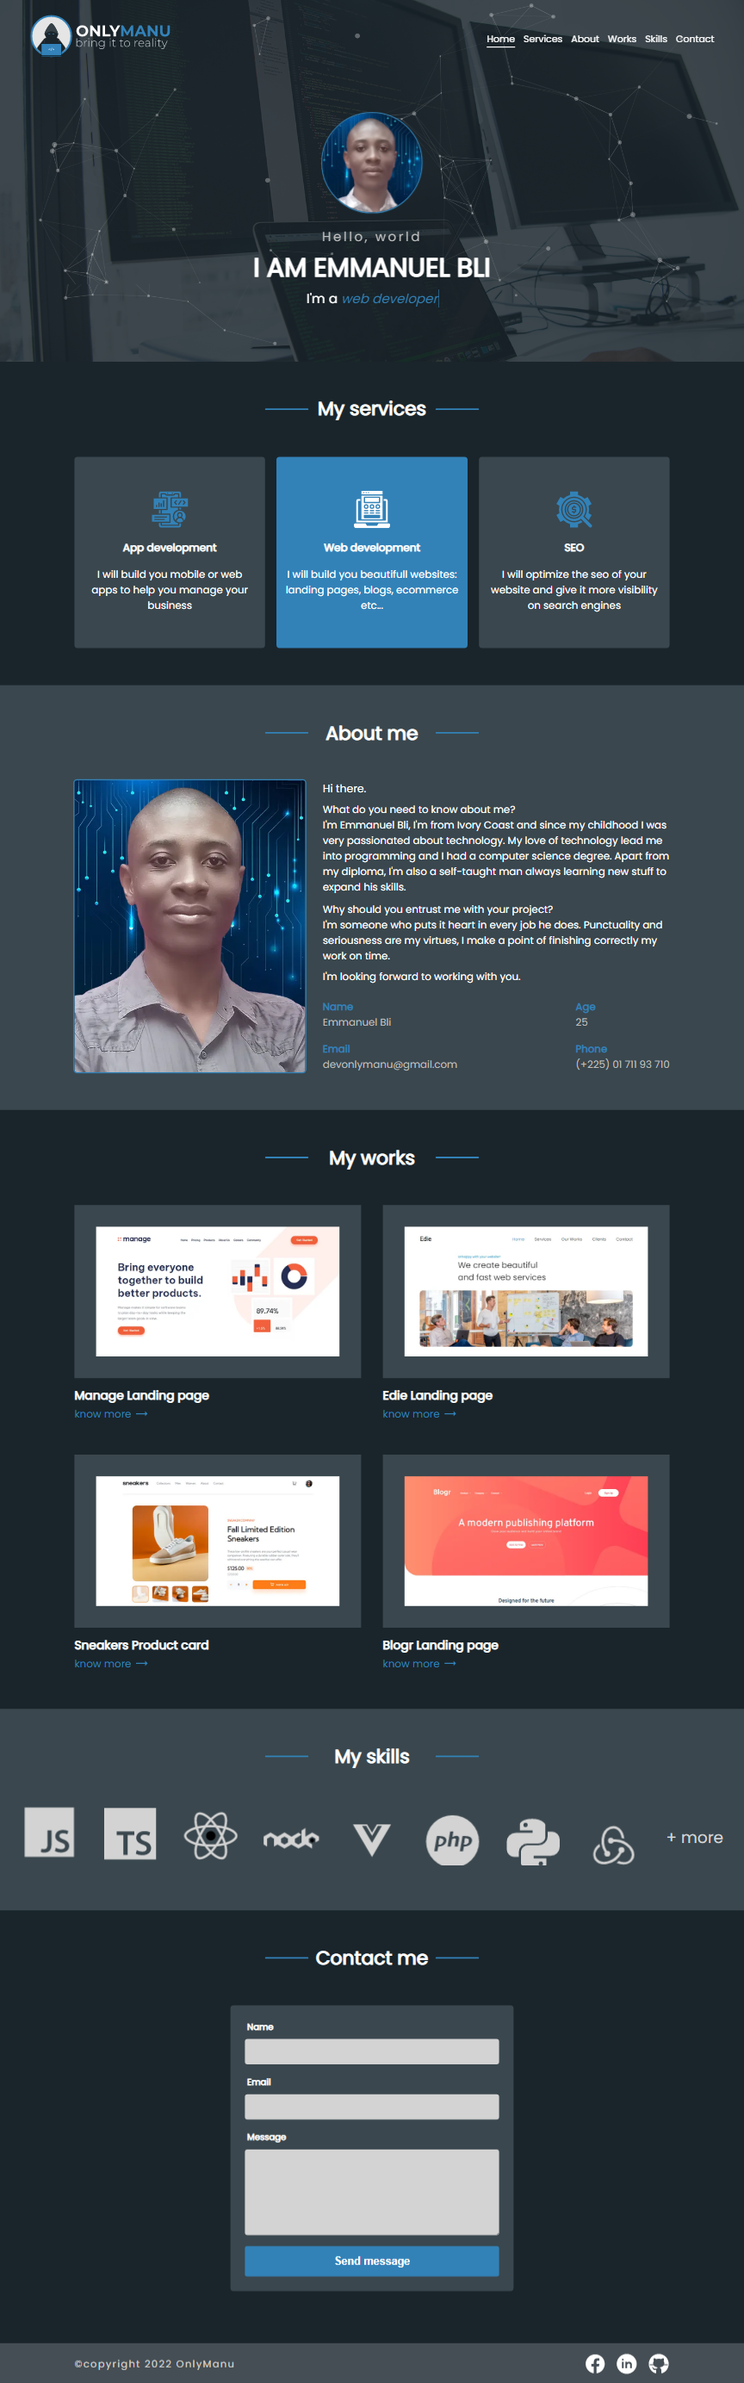
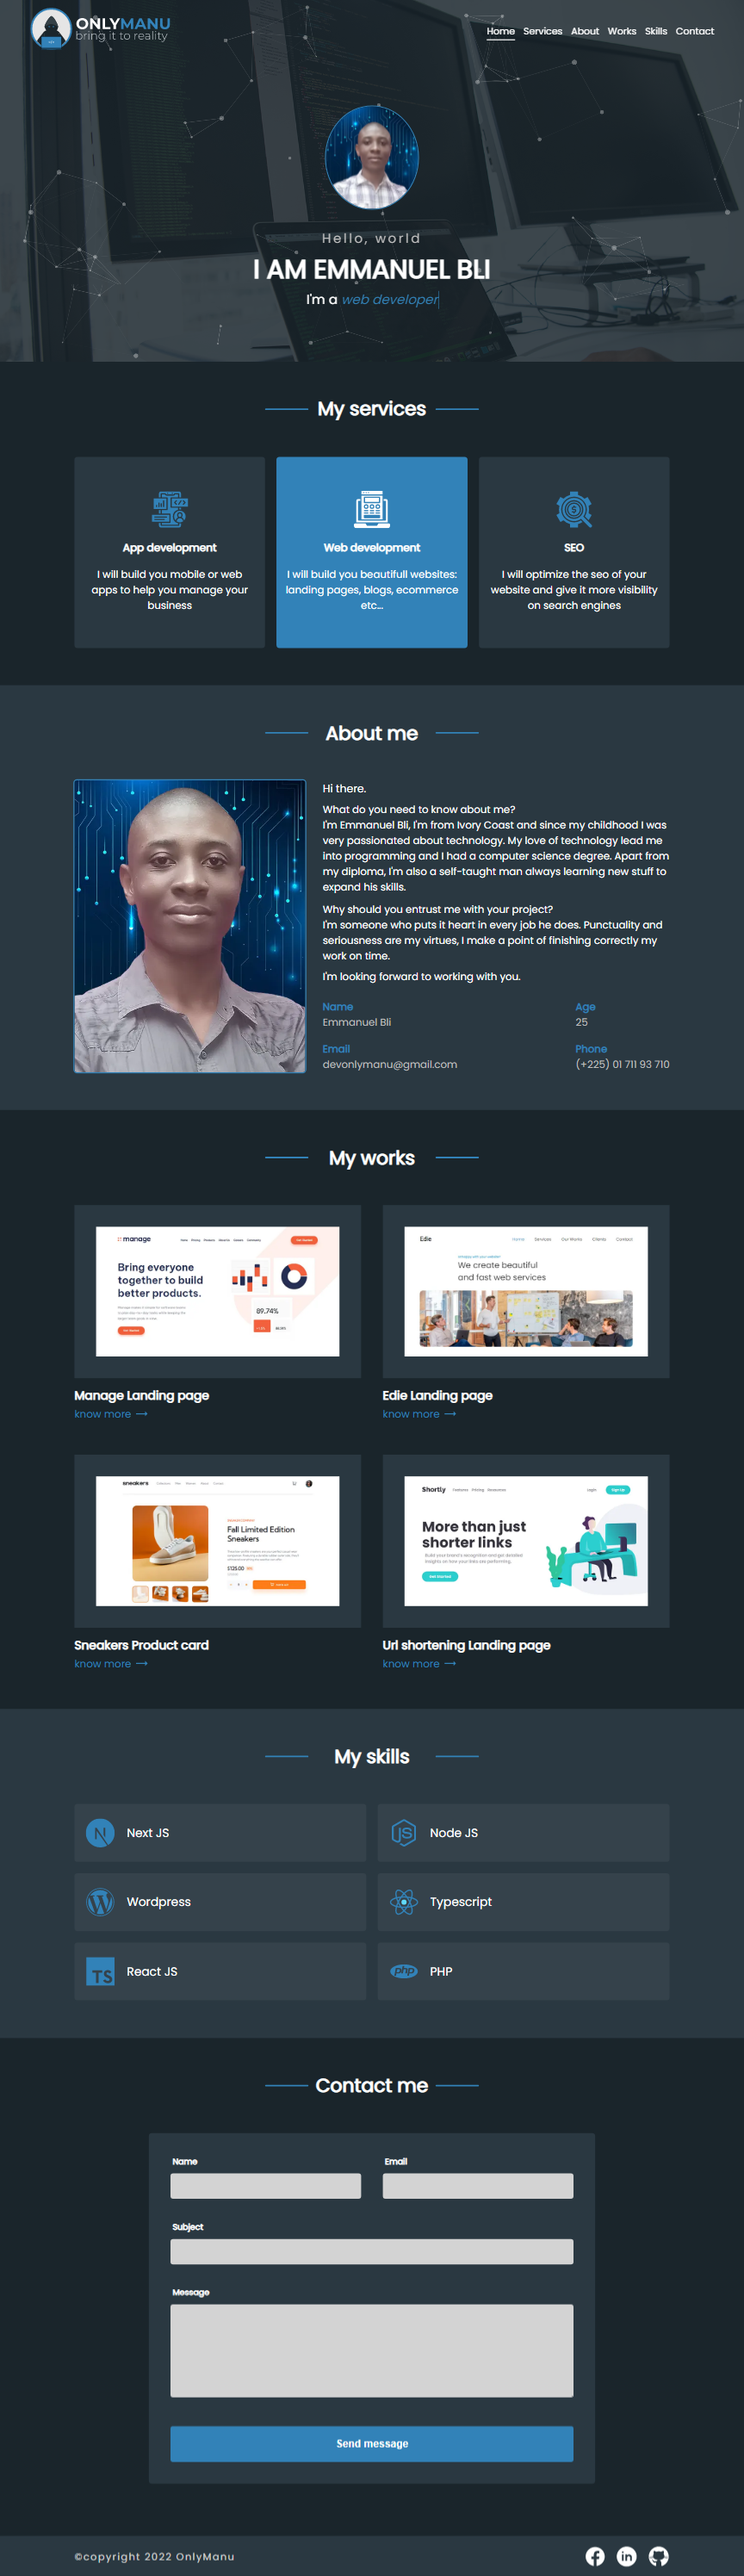
modifictaion de la taille max des noeuds particles changement d'imege de screenshot

diff --git a/pages/index.js b/pages/index.js
@@ -97,7 +97,7 @@ export default function Home() {
                 type: "circle",
             },
             size: {
-                value: { min: 1, max: 5 },
+                value: { min: 1, max: 3 },
             },
         },
         detectRetina: true,
